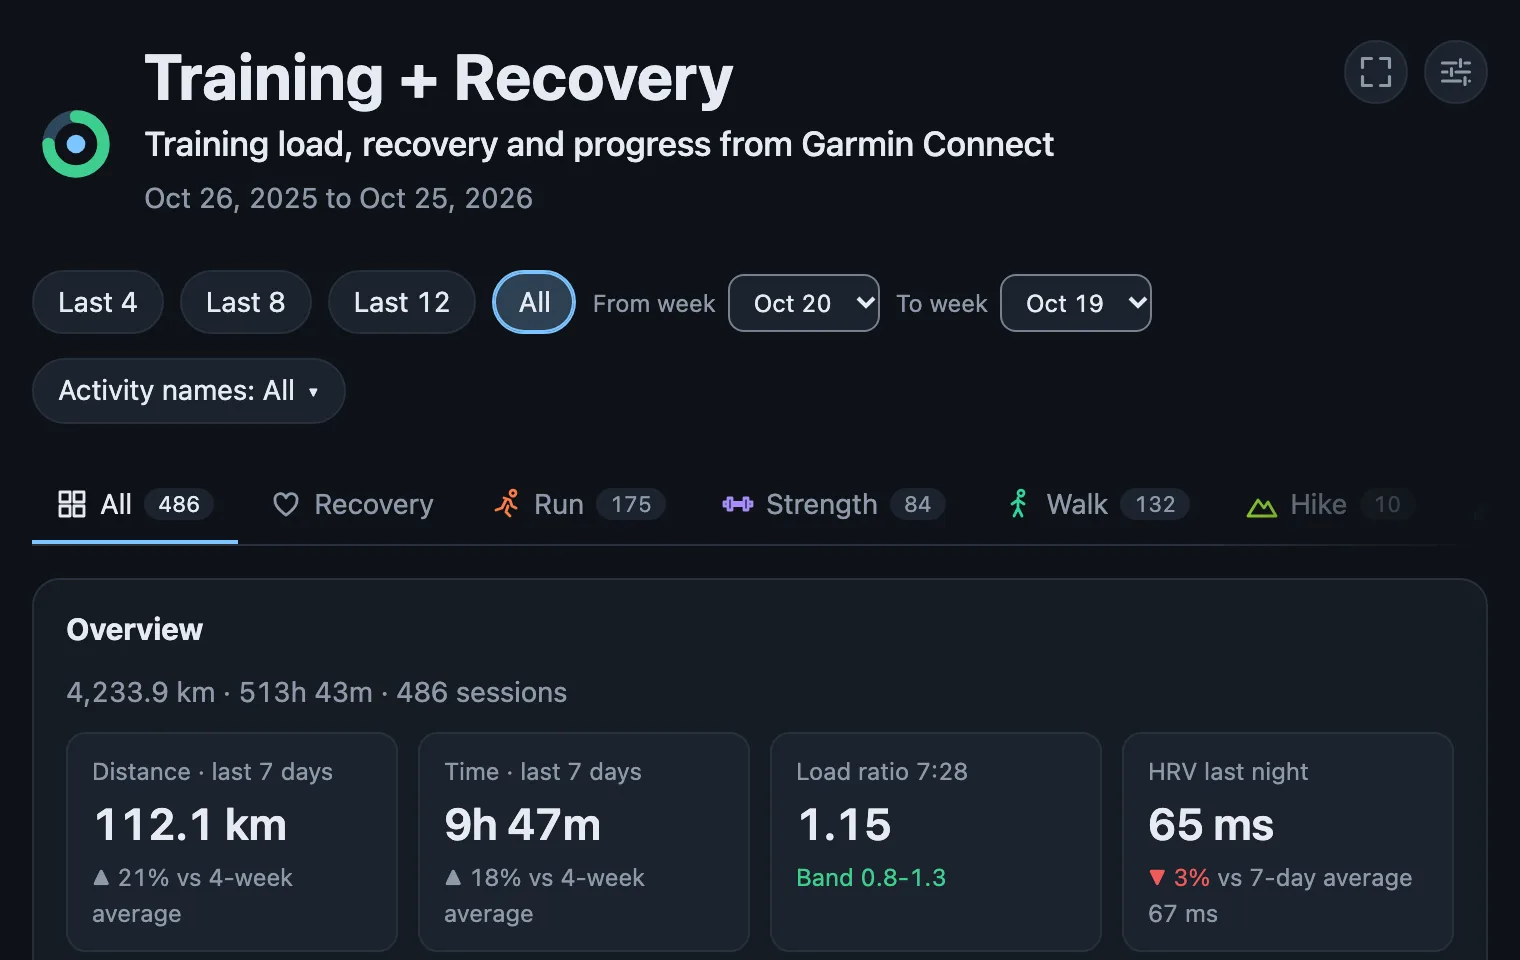
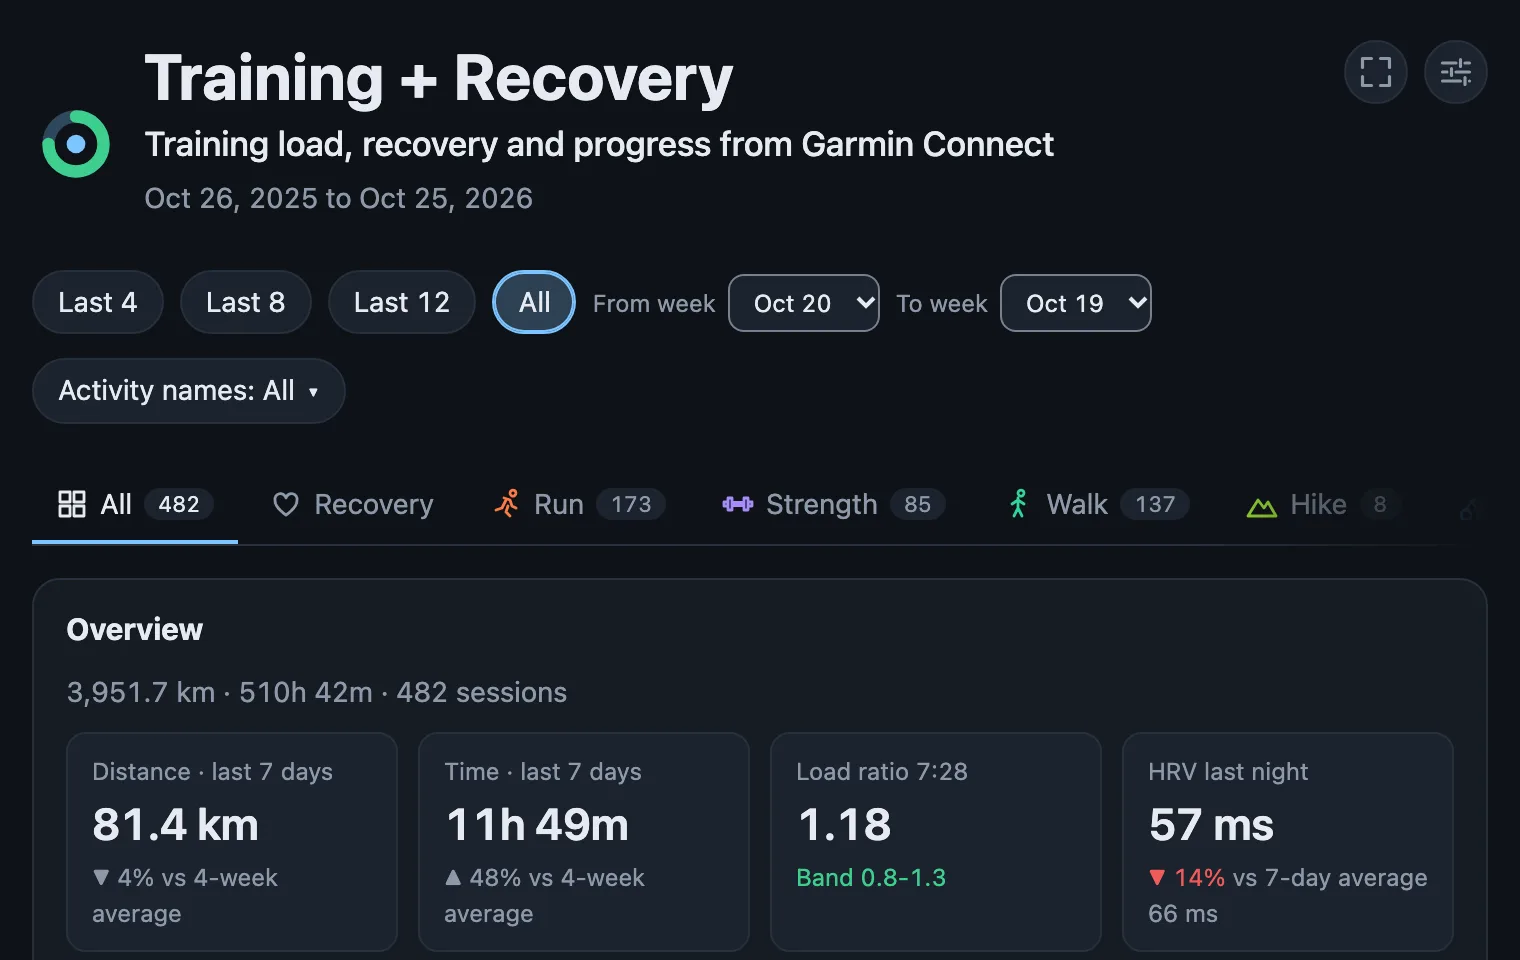
feat(dashboard): show the grit and flow of mountain-bike rides
The server keeps Garmin's grit (how hard the ride was) and flow (how
smoothly it was ridden; lower is smoother) of a ride. Rides shows them
for each ride and draws them ride after ride, with a note to compare the
flow of rides with a similar grit. A board without them stays as before.

diff --git a/test/e2e/dashboard.e2e.ts b/test/e2e/dashboard.e2e.ts
@@ -203,9 +203,11 @@ const barLabels = (page: Page, widget: string) =>
 const chartDataset = (page: Page, widget: string, label: string) =>
   page.evaluate(
     ([w, l]) => {
+      // a widget can draw more than one chart: take the dataset of the label from any of them
       const d = Object.values(window.Chart!.instances)
-        .find((c) => c.canvas.closest(`[data-widget=${w}]`))!
-        .data.datasets.find((x) => x.label === l)!;
+        .filter((c) => c.canvas.closest(`[data-widget=${w}]`))
+        .flatMap((c) => c.data.datasets)
+        .find((x) => x.label === l)!;
       return { data: d.data, spanGaps: (d as { spanGaps?: unknown }).spanGaps };
     },
     [widget, label],
@@ -1478,6 +1480,66 @@ describe("type boards", () => {
     // 13 weeks: no ride in the first 9 and the 13th; A is a gap, B a real 0, C the known 120
     const bars = await chartDataset(all.page, "bikeDetails", "Weekly ascent");
     expect(bars.data).toEqual([...Array.from({ length: 10 }, () => null), 0, 120, null]);
+  });
+
+  it("shows the grit and flow of mountain-bike rides, ride after ride", async () => {
+    const road = data.activities.find((a: Record<string, unknown>) => a.type === "cycling");
+    const trail = (n: number, start: string, grit: number | undefined, flow: number) => ({
+      ...road,
+      id: 950 + n,
+      type: "mountain_biking",
+      name: "Hillside - Trail Loop",
+      start: `${start} 09:00:00`,
+      ...(grit === undefined ? {} : { grit }),
+      flow,
+    });
+    // a ride with flow but no grit leaves a gap in the grit line, not a 0
+    const rides = [
+      trail(1, "2026-10-20", 30, 4.2),
+      road,
+      trail(3, "2026-10-13", undefined, 3.6),
+      trail(2, "2026-10-06", 12.5, 3.1),
+    ];
+    const { page, errors } = await open(
+      browser,
+      pageFile({ data: { ...data, v: DASHBOARD_VERSION, activities: rides } }),
+      { hash: "#cycling" },
+    );
+    const head = await page.$$eval("[data-id=bikeDetails] thead th", (c) =>
+      c.map((x) => x.textContent),
+    );
+    expect(head.slice(-2)).toEqual(["Grit", "Flow"]);
+    const roadRow = await page.$$eval("[data-id=bikeDetails] tbody tr", (r) =>
+      r.map((x) => [...x.children].slice(-2).map((c) => c.textContent)),
+    );
+    expect(roadRow).toContainEqual(["n/a", "n/a"]);
+    // oldest ride first; only the rides that have the value
+    expect((await chartDataset(page, "bikeDetails", "Flow")).data).toEqual([3.1, 3.6, 4.2]);
+    expect((await chartDataset(page, "bikeDetails", "Grit")).data).toEqual([12.5, null, 30]);
+    expect(await page.innerText("[data-id=bikeDetails]")).toContain("lower is smoother");
+    expect(errors).toEqual([]);
+  });
+
+  it("gives one mountain-bike ride its columns but no chart", async () => {
+    const road = data.activities.find((a: Record<string, unknown>) => a.type === "cycling");
+    const trail = { ...road, id: 960, type: "mountain_biking", grit: 20, flow: 3.5 };
+    const { page, errors } = await open(
+      browser,
+      pageFile({ data: { ...data, v: DASHBOARD_VERSION, activities: [trail, road] } }),
+      { hash: "#cycling" },
+    );
+    const head = await page.$$eval("[data-id=bikeDetails] thead th", (c) =>
+      c.map((x) => x.textContent),
+    );
+    expect(head.slice(-2)).toEqual(["Grit", "Flow"]);
+    expect(await page.locator("[data-id=bikeDetails] canvas").count()).toBe(1);
+    expect(errors).toEqual([]);
+  });
+
+  it("has no grit and flow without mountain-bike data", async () => {
+    const { page, errors } = await open(browser, pageFile(), { hash: "#cycling" });
+    expect(await page.innerText("[data-id=bikeDetails]")).not.toMatch(/\bGrit\b|\bFlow\b/);
+    expect(errors).toEqual([]);
   });
 
   it("names the training effects with the catalogue texts", async () => {

diff --git a/src/page/widgets/sports.ts b/src/page/widgets/sports.ts
@@ -248,6 +248,50 @@ register({
         200,
       );
     }
+    // mountain-bike dynamics (grit, flow): only on a board that has them
+    const trails = rides
+      .filter((a) => num(a.grit) !== undefined || num(a.flow) !== undefined)
+      .toSorted((a, b) => String(a.start).localeCompare(String(b.start)));
+    if (trails.length > 1) {
+      ctx.chart(
+        el,
+        {
+          type: "line",
+          data: {
+            labels: trails.map((a) => fmt.day(day(a))),
+            datasets: [
+              {
+                label: t("bd.flow"),
+                data: trails.map((a) => num(a.flow) ?? null),
+                borderColor: ctx.color("cycling"),
+                yAxisID: "y",
+                spanGaps: true,
+              },
+              {
+                label: t("bd.grit"),
+                data: trails.map((a) => num(a.grit) ?? null),
+                borderColor: ctx.color("hiking"),
+                borderDash: [6, 4], // not told apart by colour alone
+                yAxisID: "y1",
+                spanGaps: true,
+              },
+            ],
+          },
+          options: {
+            scales: {
+              y: { title: { display: true, text: t("bd.flow") } },
+              y1: {
+                position: "right",
+                grid: { drawOnChartArea: false },
+                title: { display: true, text: t("bd.grit") },
+              },
+            },
+          },
+        },
+        180,
+      );
+    }
+    const dynamics = trails.length > 0;
     append(
       el,
       table(
@@ -258,6 +302,7 @@ register({
           t("tk.speed"),
           t("col.ascent"),
           t("bd.where"),
+          ...(dynamics ? [t("bd.grit"), t("bd.flow")] : []),
         ],
         rides.map((a) => [
           fmt.day(day(a)),
@@ -266,9 +311,11 @@ register({
           fmt.speed(speed(a)),
           fmt.elev(num(a.ascentM)),
           isIndoor(a.type ?? "") ? t("bd.indoor") : t("bd.outdoor"),
+          ...(dynamics ? [fmt.num(num(a.grit), 1), fmt.num(num(a.flow), 1)] : []),
         ]),
-        [2, 3, 4],
+        dynamics ? [2, 3, 4, 6, 7] : [2, 3, 4],
       ),
+      dynamics && note(t("bd.trailNote")),
     );
   },
 });

diff --git a/src/tools.ts b/src/tools.ts
@@ -370,6 +370,9 @@ export function summarize(a: Json): Json {
   copy(a, o, "steps", "steps");
   putRounded(a, o, "avgPower", "avgPowerW", 0);
   putRounded(a, o, "normPower", "normPowerW", 0);
+  // mountain-bike dynamics: grit is how hard the trail was, flow how smoothly it was ridden (lower is smoother)
+  putRounded(a, o, "grit", "grit", 1);
+  putRounded(a, o, "avgFlow", "flow", 1);
   putRounded(a, o, "avgStrideLength", "strideCm", 1);
   putRounded(a, o, "avgGroundContactTime", "gctMs", 0);
   putRounded(a, o, "avgVerticalOscillation", "vertOscCm", 1);
@@ -615,9 +618,10 @@ export function registerTools(server: McpServer, tools: GarminTools): void {
         "cadence, ascent; when Garmin has them: elapsed time (if longer than moving time), race flag,",
         "Garmin training load, aerobic/anaerobic training effect and label, seconds in HR zones 1-5,",
         "calories, moderate/vigorous intensity minutes, body battery change, steps, swim SWOLF, pool",
-        "length, lengths and strokes, power, running form (stride, ground contact, vertical",
-        "oscillation and ratio), grade-adjusted pace, best efforts (1k, mile, 5k, 10k, half,",
-        "marathon) and run/walk segments. Dates are yyyy-MM-dd. Set raw=true for Garmin's full JSON.",
+        "length, lengths and strokes, power, mountain-bike grit and flow, running form (stride, ground",
+        "contact, vertical oscillation and ratio), grade-adjusted pace, best efforts (1k, mile, 5k,",
+        "10k, half, marathon) and run/walk segments. Dates are yyyy-MM-dd. Set raw=true for Garmin's",
+        "full JSON.",
       ].join("\n"),
       inputSchema: z.object({
         startDate: z.string().describe("Start date yyyy-MM-dd (optional)").optional(),

diff --git a/src/dashboard.ts b/src/dashboard.ts
@@ -32,6 +32,8 @@ export const weeksCovered = (weeks: number | undefined): number =>
   weeks == null ? DEFAULT_WEEKS : Math.min(Math.max(weeks, 1), MAX_WEEKS);
 /** The last days of a cached range are fetched again: Garmin can still add activities or finish a night's data. */
 const REFRESH_DAYS = 2;
+/** Bump when summarize keeps a new field: cached rows from before it are fetched again, once. */
+const SUMMARY = 2;
 
 /** What one getDashboardData call counts. */
 interface Sync {
@@ -128,9 +130,10 @@ export class GarminDashboard {
 
   async #syncActivities(cache: Json, from: string, to: string, sync: Sync): Promise<void> {
     const byId = objectAt(cache, "activities");
-    // rows written before the sport field, or by another server: fetch the activities again.
+    // rows written before a summary field (SUMMARY) or the sport field, or by another server: fetch them again.
     // shortcut: a row that Garmin sends without sportTypeId repeats this on every call; mark rows if that happens
     if (
+      cache.activitiesSummary !== SUMMARY ||
       Object.values(byId).some((a) => isObject(a) && a.type !== undefined && a.sport === undefined)
     ) {
       for (const id of Object.keys(byId)) delete byId[id];
@@ -172,6 +175,7 @@ export class GarminDashboard {
       }
     }
     setCovered(cache, "activitiesFrom", "activitiesTo", covered(cachedFrom, cachedTo, from, to));
+    cache.activitiesSummary = SUMMARY;
   }
 
   async #syncHrv(cache: Json, from: string, to: string, sync: Sync): Promise<void> {

diff --git a/test/dashboard.test.ts b/test/dashboard.test.ts
@@ -414,6 +414,25 @@ describe("getDashboardData", () => {
     expect(Object.keys(readCache().activities)).toEqual(["1"]);
   });
 
+  it("fetches the activities again, once, when the cache is from before a new summary field", async () => {
+    garminActivities = [activity(1, "2026-10-20")];
+    await dashboard.getDashboardData(2);
+    const cache = readCache();
+    delete cache.activitiesSummary;
+    writeFileSync(cacheFile(), JSON.stringify(cache));
+    api.getJson.mockClear();
+
+    await dashboard.getDashboardData(2);
+    expect(callsTo("/activitylist").map(([, q]) => [q.startDate, q.endDate])).toEqual([
+      ["2026-09-21", "2026-10-26"],
+    ]);
+    api.getJson.mockClear();
+    await dashboard.getDashboardData(2);
+    expect(callsTo("/activitylist").map(([, q]) => [q.startDate, q.endDate])).toEqual([
+      ["2026-10-25", "2026-10-26"],
+    ]);
+  });
+
   it("drops a cached activity that Garmin no longer has in a refetched day", async () => {
     garminActivities = [activity(1, "2026-10-26"), activity(2, "2026-10-20")];
     await dashboard.getDashboardData(2);

diff --git a/src/page/catalogue-about.ts b/src/page/catalogue-about.ts
@@ -61,7 +61,8 @@ export const ABOUT: Record<string, string> = {
     "Weekly pace and average HR, and steps, cadence and body battery change of each walk.",
   steps: "Daily steps against the goal, and floors, for the last 14 days.",
   hikeVertical: "Vertical metres per hour of each activity with ascent.",
-  bikeDetails: "Weekly speed and ascent, each ride, and indoor against outdoor time.",
+  bikeDetails:
+    "Weekly speed and ascent, each ride, and indoor against outdoor time; for mountain-bike rides, the grit and flow of each ride.",
   swimDetails: "Each swim with pace per 100 m, SWOLF, lengths, strokes and pool length.",
   racketDetails:
     "Each racket session: sport, HR, time in Z3+, Z4-5 share, calories per hour, training effect, and its load against a run of the same length.",

diff --git a/test/tools.test.ts b/test/tools.test.ts
@@ -150,6 +150,17 @@ describe("summarize", () => {
     expect(s.strokes).toBe(980);
   });
 
+  it("keeps the grit and flow of a mountain-bike ride", () => {
+    const s = summarize({
+      activityType: { typeKey: "mountain_biking" },
+      grit: 41.26,
+      avgFlow: 3.04,
+    });
+    expect(s.grit).toBe(41.3);
+    expect(s.flow).toBe(3);
+    expect(summarize({ activityType: { typeKey: "cycling" } })).not.toHaveProperty("flow");
+  });
+
   // numeric text counts as a number, also with spaces around it, but not hex, NaN or Infinity
   it.each([
     ["5000", 5],

diff --git a/guide/tools.md b/guide/tools.md
@@ -5,7 +5,7 @@ them yourself.
 
 | Tool                       | Endpoint                                                                            | What it gives                                                                                                                                                                                                                                                                                                                                                                                                                                                                                                                                                                                                                                                                                                                                                                                                                                                                                                                   |
 | -------------------------- | ----------------------------------------------------------------------------------- | ------------------------------------------------------------------------------------------------------------------------------------------------------------------------------------------------------------------------------------------------------------------------------------------------------------------------------------------------------------------------------------------------------------------------------------------------------------------------------------------------------------------------------------------------------------------------------------------------------------------------------------------------------------------------------------------------------------------------------------------------------------------------------------------------------------------------------------------------------------------------------------------------------------------------------- |
-| `listActivities`           | `/activitylist-service/activities/search/activities`                                | a compact summary of each activity: the Garmin type key and the FIT SDK sport name, km, moving and elapsed time, pace, HR, cadence, ascent, HR-zone seconds, Garmin training load and training effect, intensity minutes, race flag, best efforts, power, running form, run/walk segments, swim SWOLF, lengths and strokes. `raw=true` gives the full JSON.                                                                                                                                                                                                                                                                                                                                                                                                                                                                                                                                                                     |
+| `listActivities`           | `/activitylist-service/activities/search/activities`                                | a compact summary of each activity: the Garmin type key and the FIT SDK sport name, km, moving and elapsed time, pace, HR, cadence, ascent, HR-zone seconds, Garmin training load and training effect, intensity minutes, race flag, best efforts, power, running form, run/walk segments, swim SWOLF, lengths and strokes, mountain-bike grit and flow. `raw=true` gives the full JSON.                                                                                                                                                                                                                                                                                                                                                                                                                                                                                                                                        |
 | `getActivity`              | `/activity-service/activity/{id}`                                                   | summary, metadata and segments by type                                                                                                                                                                                                                                                                                                                                                                                                                                                                                                                                                                                                                                                                                                                                                                                                                                                                                          |
 | `getActivityLaps`          | `/download-service/files/activity/{id}`                                             | laps from the .FIT file: km, time, pace or speed, HR, cadence, ascent, power and intensity; for a run: `split` and `work` (fade of each step)                                                                                                                                                                                                                                                                                                                                                                                                                                                                                                                                                                                                                                                                                                                                                                                   |
 | `getActivitySets`          | `/download-service/files/activity/{id}`                                             | strength sets from the .FIT file: exercise, movement category, primary and secondary muscles, reps, weight (kg), set time and the rest after the set; the top set and the e1RM of each exercise. The empty set that the watch adds at the end of a workout is not shown                                                                                                                                                                                                                                                                                                                                                                                                                                                                                                                                                                                                                                                         |

diff --git a/guide/widgets.md b/guide/widgets.md
@@ -44,7 +44,7 @@ it by hand.
 | Pace and walks | `walkDetails` | Weekly pace and average HR, and steps, cadence and body battery change of each walk. | walking, hiking | 2 |
 | Daily steps | `steps` | Daily steps against the goal, and floors, for the last 14 days. | - | 1 |
 | Vertical speed | `hikeVertical` | Vertical metres per hour of each activity with ascent. | hiking, walking, running | 3 |
-| Rides | `bikeDetails` | Weekly speed and ascent, each ride, and indoor against outdoor time. | cycling | 3 |
+| Rides | `bikeDetails` | Weekly speed and ascent, each ride, and indoor against outdoor time; for mountain-bike rides, the grit and flow of each ride. | cycling | 3 |
 | Swims | `swimDetails` | Each swim with pace per 100 m, SWOLF, lengths, strokes and pool length. | swimming | 3 |
 | Sessions and intensity | `racketDetails` | Each racket session: sport, HR, time in Z3+, Z4-5 share, calories per hour, training effect, and its load against a run of the same length. | racket, generic | 3 |
 

diff --git a/prompts/training-dashboard-freeform.md b/prompts/training-dashboard-freeform.md
@@ -274,7 +274,8 @@ charts ("one session so far"). Trends start at 2 sessions.
 **Walk** adds pace and avg HR for each week, and steps, cadence and body battery change for each
 walk. It also adds daily steps against the goal, with floors (last 14 days). **Hike** adds
 vertical metres per hour. **Bike** adds average speed and ascent for each week, the ascent for
-each ride and the indoor/outdoor split. **Swim** adds pace per 100 m, SWOLF, lengths and strokes
+each ride and the indoor/outdoor split; for mountain-bike rides, `grit` (how hard the ride was) and
+`flow` (lower is smoother) of each ride. **Swim** adds pace per 100 m, SWOLF, lengths and strokes
 for each session. **Racket sports** adds the sport, avg HR and time in Z3+ for each session, Z4-5 share and peak HR.
 It also adds calories per hour, training effect, and its load against a run of the same length.
 

diff --git a/guide/languages.md b/guide/languages.md
@@ -523,6 +523,9 @@ out. To add one:
 | `bd.indoor` | Indoor |
 | `bd.rides` | {n} ride\|{n} rides |
 | `bd.where` | Where |
+| `bd.grit` | Grit |
+| `bd.flow` | Flow |
+| `bd.trailNote` | Mountain-bike rides: grit is how hard the ride was (higher is harder), flow how smoothly it was ridden (lower is smoother). Compare the flow of rides with a similar grit. |
 | `w.swimDetails` | Swims |
 | `sw.pace` | Pace |
 | `sw.lengths` | Lengths |
